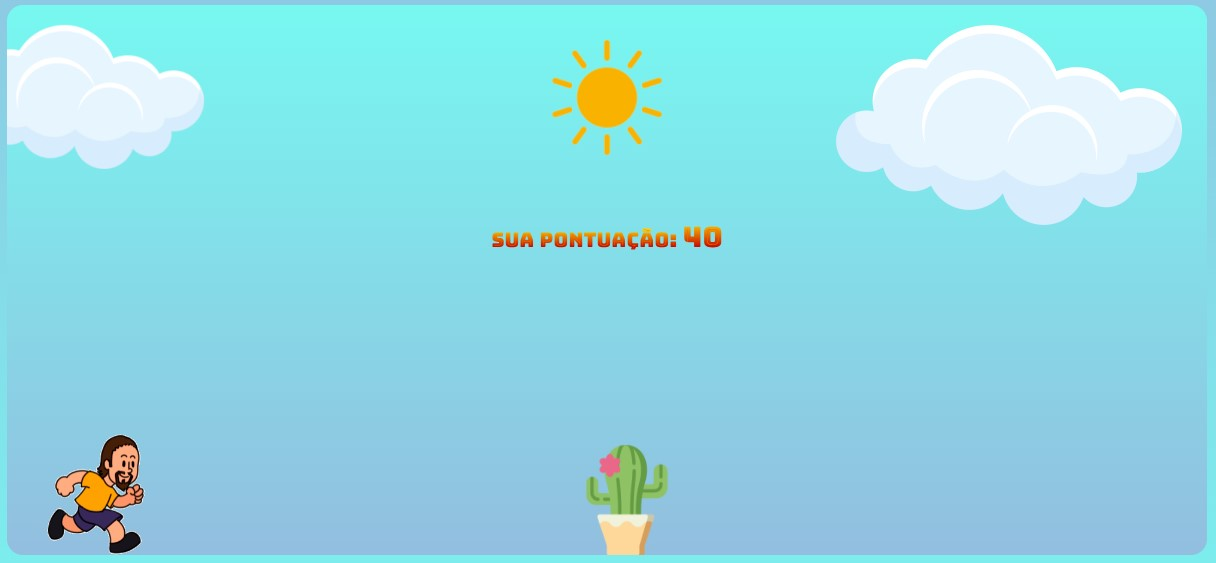
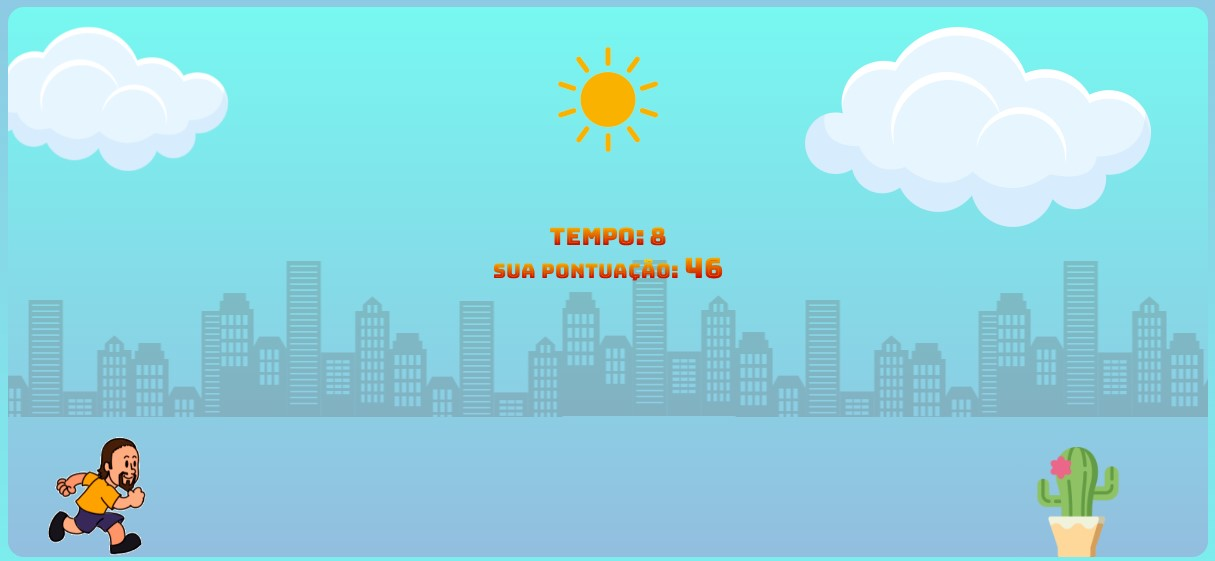
Ajuste evento para aceitar apenas a tecla enter e atualização Readme.md

Changed region(s): [[0.0, 0.3939, 1.0, 1.0], [0.0, 0.0, 0.9745, 0.4242], [0.4568, 0.0606, 0.5481, 0.2727]]

diff --git a/assets/js/script.js b/assets/js/script.js
@@ -72,22 +72,24 @@ function comecarJogo() {
     }
 
     // inclui e remove a animacao de pulo do personagem
-    const puloPersonagem = function () {
+    const puloPersonagem = function (event) {
+        // se a tecla pressionada for espaço
+        if (event.key === ' ') {
+            // executa o som do pulo
+            somPulo.play();
 
-        // executa o som do pulo
-        somPulo.play();
+            // tempo de reproducao do som do pulo apos audio ter sido executado
+            somPulo.currentTime = 0;
 
-        // tempo de reproducao do som do pulo apos audio ter sido executado
-        somPulo.currentTime = 0;
-
-        // adiciona a animacao do pulo
-        personagem.classList.add('pulo-personagem');
+            // adiciona a animacao do pulo
+            personagem.classList.add('pulo-personagem');
         
-        setTimeout(() => {
-            personagem.classList.remove('pulo-personagem')
-            pontos += (3 * 2) / 1;
-            pontuacaoJogador.textContent = pontos;
-        }, 600);
+            setTimeout(() => {
+                personagem.classList.remove('pulo-personagem')
+                pontos += (3 * 2) / 1;
+                pontuacaoJogador.textContent = pontos;
+            }, 600);
+        }
     }
 
     const loop = setInterval(() => {
@@ -185,10 +187,8 @@ function exibirUltimasPontuacoes() {
             const ConteudoTempo = document.createElement('p');
             conteudoPontuacao.textContent = `Pontos: ${pontuacao.pontos}`;
             ConteudoTempo.textContent = `Tempo: ${pontuacao.tempo} segundos`;
-
             pontuacaoItem.appendChild(conteudoPontuacao);
             pontuacaoItem.appendChild(ConteudoTempo);
-
             painelUltimasPontuacoes.appendChild(pontuacaoItem);
         });
         

diff --git a/README.md b/README.md
@@ -1,16 +1,16 @@
 # GameHub
-Este é um jogo simples desenvolvido em HTML, CSS e JavaScript onde você o personagem que deve desviar de obstáculos para acumular pontos. O jogo possui mecânicas de pulo, colisão e uma pontuação que aumenta a cada obstáculo superado.
+Este é um jogo simples desenvolvido em HTML, CSS e JavaScript onde o personagem acumula pontos a cada obstaculo superado. O jogo possui mecânicas de pulo, pontuação, contagem do tempo de jornada, colisão e histórico das ultimas pontuações.
 
 Personagem criado por: [@gudilarri](https://www.instagram.com/gudilarri/ "@gudilarri") | 
-Desenvolvimento: [Daniel Pelissari](http://https://www.linkedin.com/in/daniel-pelissari-ba8082145/ "Daniel Pelissari")
+Desenvolvimento: Daniel Pelissari
 
 ![](https://raw.githubusercontent.com/dpelissari/GameHub/28e82e725527347c827d69a157793a3861eb6784/assets/img/gamehub.jpg)
 
 ## Funcionalidades
-- Controle o personagem pressionando qualquer tecla do teclado para pular os obstaculos
-- Acumule pontos a cada obstaculo superado
-- Efeitos sonoros a cada pulo e quando chegar ao fim do jogo para uma experiência mais imersiva.
-- Interface de usuário e animações simples desenvolvidas apenas com html e CSS.
+- Controle o pulo do personagem pressionando a tecla espaço
+- Geração de pontuação a cada obstaculo superado
+- Efeitos sonoros para uma experiência mais imersiva.
+- Interface e animações desenvolvidas apenas com html, CSS e Javascript.
 
 ## Pré-requisitos
 - Navegador da Web moderno (recomendado Google Chrome, Mozilla Firefox, ou Microsoft Edge).
